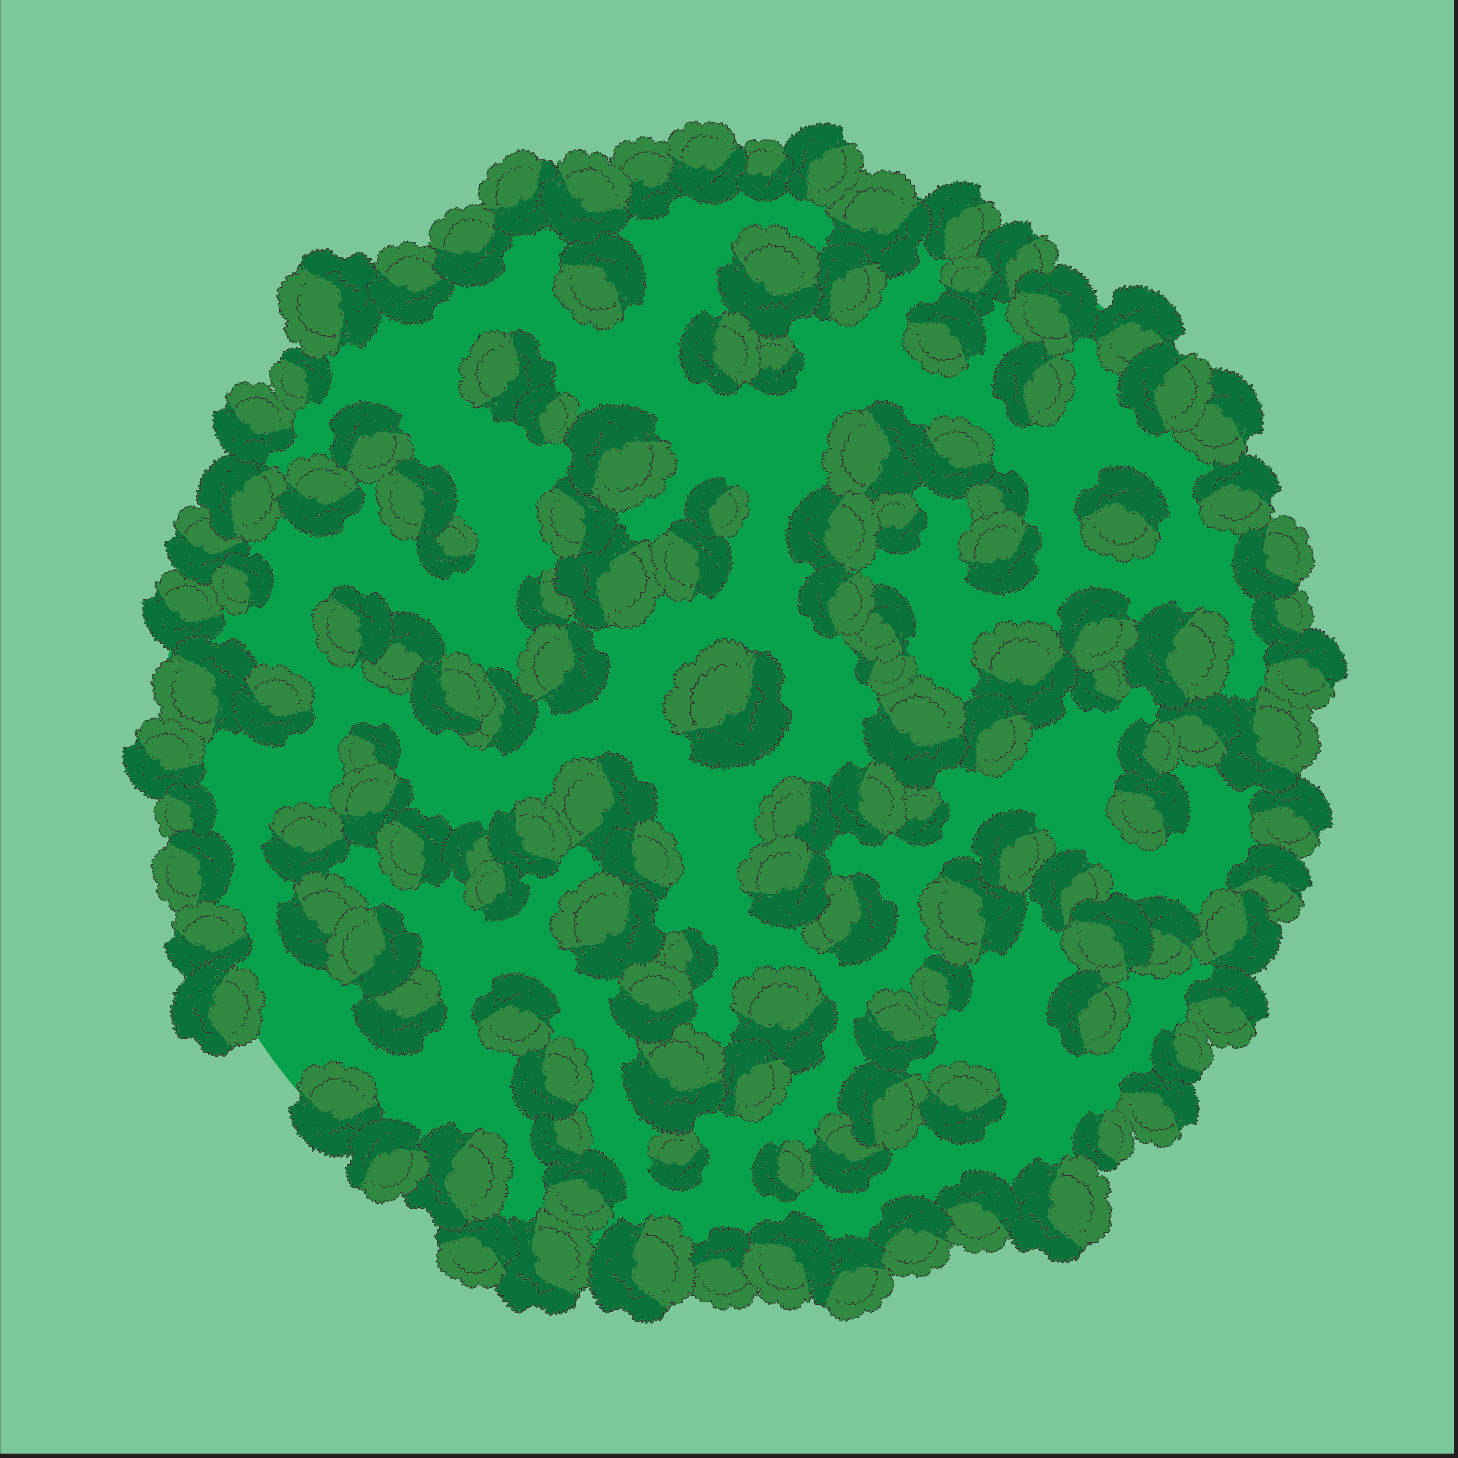
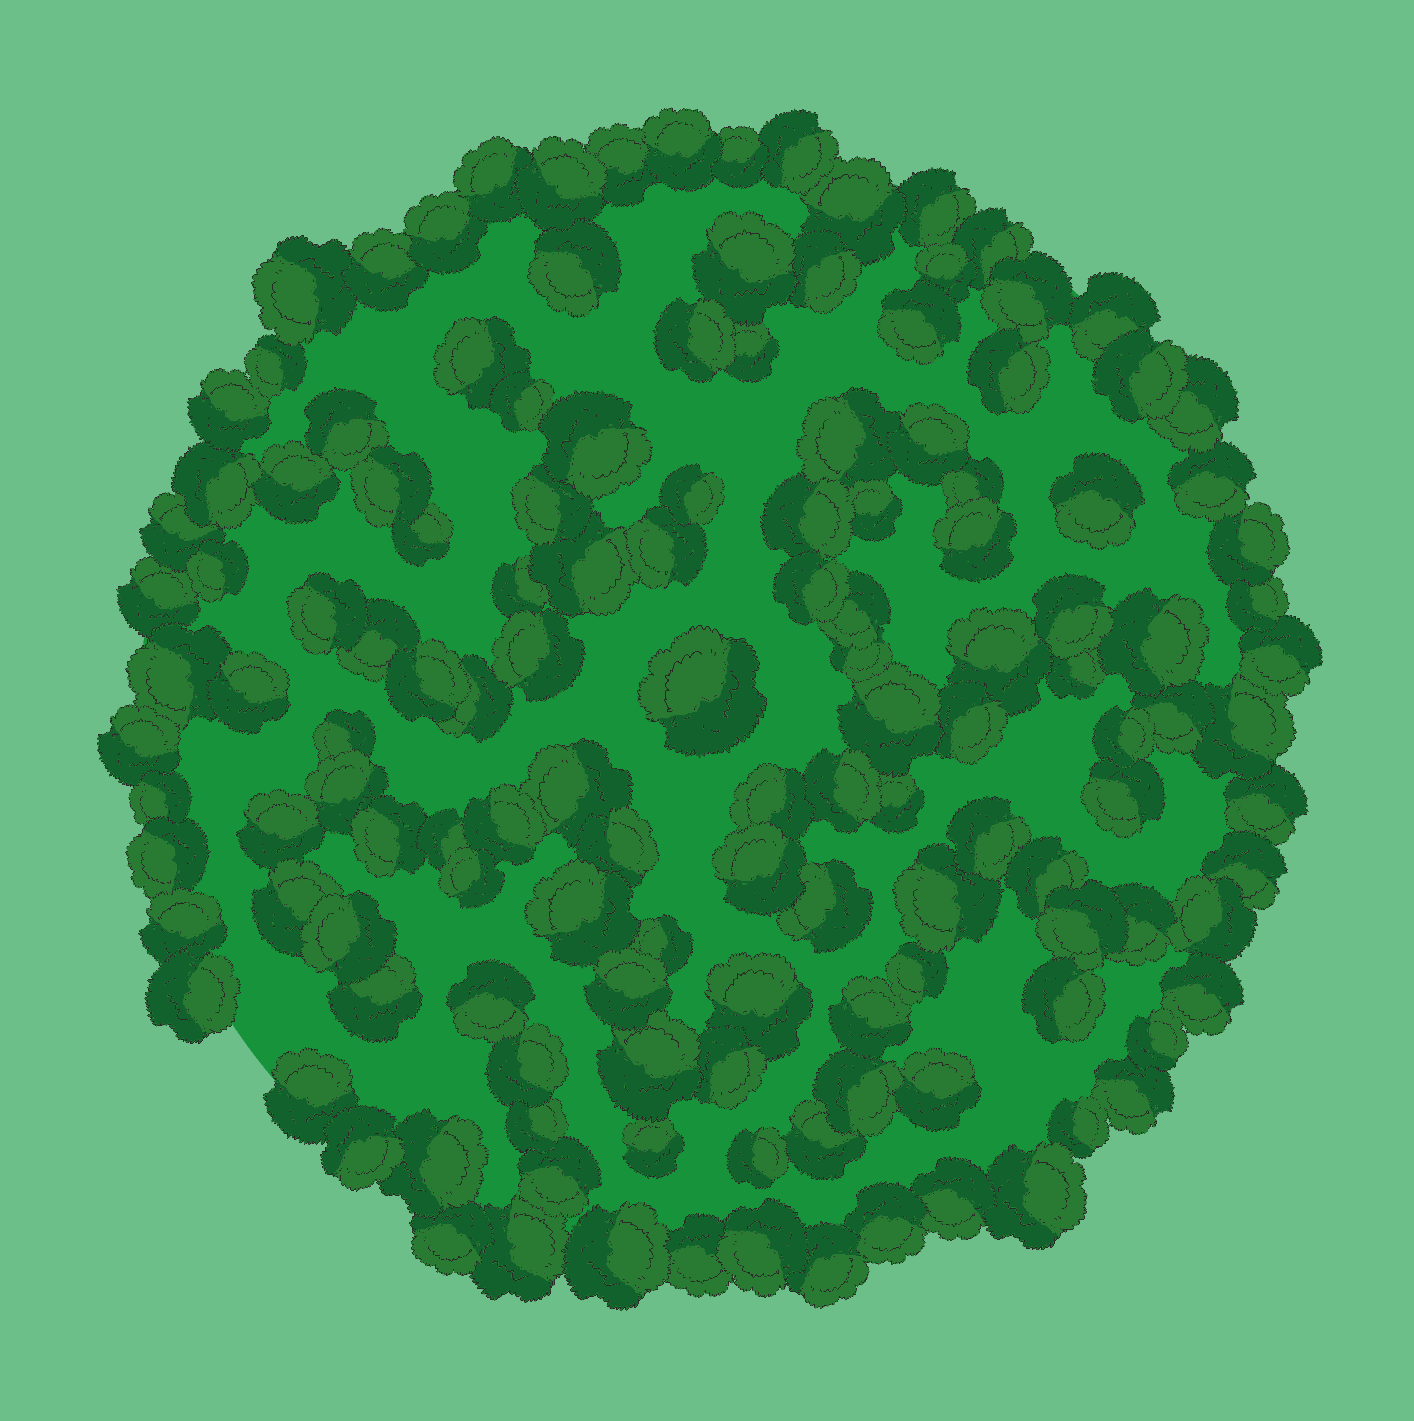
modal problem fixed (temp)

diff --git a/src/components/RoomThree/RoomThree.vue b/src/components/RoomThree/RoomThree.vue
@@ -5,7 +5,7 @@
         <div class="modal-content">
           <span class="modal_close" @click="closeModal()" >&times;</span>
           <p>Hedge Maze</p>
-          <img src="../../img/hedgemaze.png" alt="Hedge Maze"/>
+          <img id="Hedge_Maze" src="../../img/hedgemaze.png" alt="Hedge Maze"/>
         </div>
       </div>
       <!-- <div class="modal-item"> 
@@ -60,7 +60,7 @@
 export default {
   name: 'RoomThree',
   emits: ['roomThreeFin'],
-  mounted: function(){
+    mounted: function(){
     this.movement();  
     this.coordinates();
     //this.walls();
@@ -175,8 +175,8 @@ export default {
               //if it is a modal object - and enter is clicked = a popup opens 
               if (objectLeft === playerLeft && objectTop === playerTop) {
                 document.addEventListener('keydown', function (event){
-                  if (event.keyCode == "13"){  
-                    const modalItem = modalArray[index];
+                  const modalItem = modalArray[index];
+                  if (event.keyCode == "13"){
                     modalItem.style.display = "block";
                   }
                 })
@@ -312,31 +312,40 @@ export default {
 h3 {
   margin: 40px 0 0;
 }
+
 ul {
   list-style-type: none;
   padding: 0;
 }
+
 li {
   display: inline-block;
   margin: 0 10px;
 }
+
 a {
   color: #42b983;
 }
 
 #Skull-1 {
-  position: absolute !important;
-  top: 40% !important;
-  left: 15% !important;
+  position: absolute;
+  top: 40%;
+  left: 15%;
 }
 #Skull-2 {
-  position: absolute !important;
-  top: 60% !important;
-  left: 35% !important;
+  position: absolute;
+  top: 60%;
+  left: 35%;
 }
 #Skull-3 {
-  position: absolute !important;
-  top: 30% !important;
-  right: 25% !important;
+  position: absolute;
+  top: 30%;
+  right: 25%;
+}
+
+#Hedge_Maze{
+  /* position: relative;
+  height: 75%; */
+  width: 75%;
 }
 </style>
